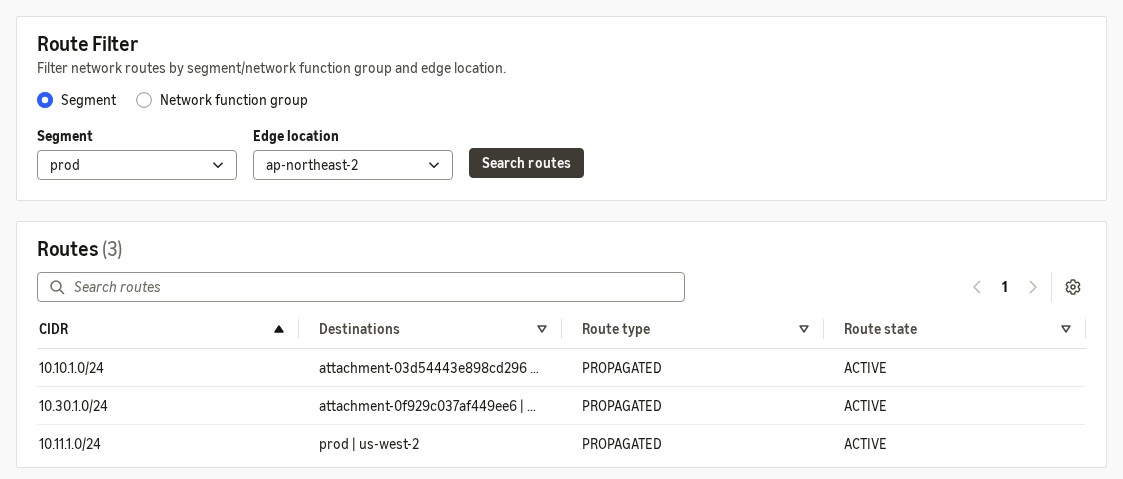
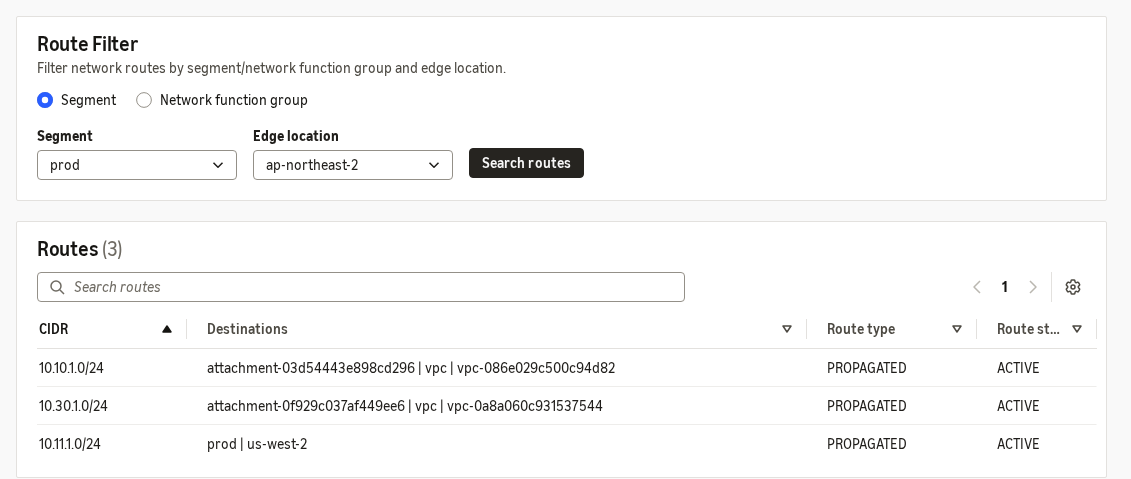
Widen Destinations in the segment route table so it reads whole
The column truncated to "attachment-03d54443e898cd296 ..." and the tail is what
says where the route points: an attachment, the VPC behind it, or - for the
cross-Region route - a segment and Region. CIDR and Route type hold short values
and give up the width; Route state is last and Cloudscape fills it with whatever
remains, so it cannot be dragged.

Claude-Session: https://claude.ai/code/session_019PvznuDZaZguvoDVdVkBrg

diff --git a/tools/shots/cwan-console.py b/tools/shots/cwan-console.py
@@ -199,9 +199,12 @@ def routes(segment, name, must=None):
     # Destinations truncates to "attachment-0d39747b96dd62bf6 ..." and the tail
     # is the point: it says what the route points at. CIDR, Route type and Route
     # state hold short values, so take the width from them.
-    for col, w in (("CIDR", 150), ("Route type", 170), ("Route state", 150)):
+    # Route state is the last column and Cloudscape will not let it be dragged -
+    # it absorbs whatever is left - so take from CIDR and Route type and then
+    # push Destinations wide enough to show "<attachment> | vpc | <vpc id>" whole.
+    for col, w in (("CIDR", 150), ("Route type", 170)):
         resize_column(col, w)
-    resize_column("Destinations", 430)
+    resize_column("Destinations", 480)
     f = app()
     print(f"--- routes {segment} ---")
     print(body(f)[:1200].replace("\n", " | "))
